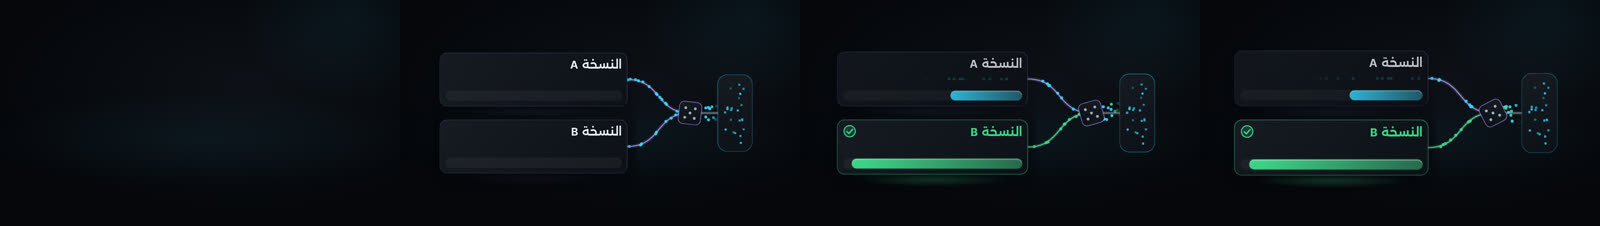
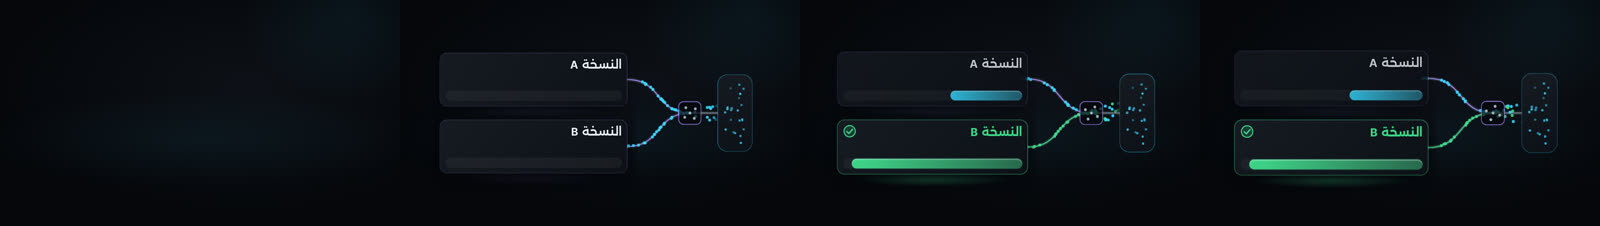
P7 dom-b: ABSplit finished (ordinal lanes per D1, deterministic die, dots sink at the lane rim; snap PASS det 0 qa 0, baselines pending-critic; perf lite 0.079 / standard 0.104 / hero 0.095 box s/frame; Arabic QA pass 2/2)
Claude-Session: https://claude.ai/code/session_01VrU9wxU8GmuhdhWAAHnnQ8

diff --git a/studio/src/components/ABSplit/ABSplit.tsx b/studio/src/components/ABSplit/ABSplit.tsx
@@ -19,7 +19,6 @@ import type {Props} from './schema';
 import {formatValue} from '../NumberCounter/NumberCounter';
 import {At, Chip, FitLabel, GlowLine, Stage, Svg, actsOf, bez, dPath, f24, fmtCount, glowBox, lerp, prog, progN, ranks, rim, stag, type Pt} from '../_dom-b/kit';
 
-const DBG: number = 8;
 const clamp = {extrapolateLeft: 'clamp', extrapolateRight: 'clamp'} as const;
 /** Digits only for contract facts (D1 ruling 1-2). */
 export const showsValues = (p: Props) => p.variants.every((v) => /^d:/.test(v.rate.ref));
@@ -48,7 +47,7 @@ export const ABSplitView: React.FC<DcProps<Props>> = ({props, ctx}) => {
   const qWin = progN(ctx, tWin, presetFrames('label', fps));
   const ent = prog(ctx, ctx.at, 'label');
   // ---------- decorative stream dots (never a user count) ----------
-  const DOTS = DBG & 1 ? 0 : Math.min(fx.particles, 20 * n + 20);
+  const DOTS = Math.min(fx.particles, 20 * n + 20);
   const cycle = f24(96, fps); // frames for a dot to run tank -> through the lane
   const dotR = Math.max(6, SIZE.label * 0.22);
   const trunkH = L.tankH * 0.3;
@@ -57,16 +56,17 @@ export const ABSplitView: React.FC<DcProps<Props>> = ({props, ctx}) => {
     const phase = random(`ab:${ctx.id}:${k}`);
     const age = ((((t - ctx.at) / cycle + phase) % 1) + 1) % 1; // linear: marching flow (04 section 2)
     let p: Pt;
-    if (age < 0.22) p = {x: lerp(src.x - L.tankW / 2, split.x, age / 0.22), y: src.y + (random(`aby:${ctx.id}:${k}`) - 0.5) * trunkH * (1 - (age / 0.22) * 0.8)};
-    else if (age < 0.5) {
+    if (age < 0.25) p = {x: lerp(src.x - L.tankW / 2, split.x, age / 0.25), y: src.y + (random(`aby:${ctx.id}:${k}`) - 0.5) * trunkH * (1 - (age / 0.25) * 0.8)};
+    else if (age < 0.8) {
       const lp = lanePath(lane);
-      const f = ((age - 0.22) / 0.28) * (lp.length - 1);
+      const f = ((age - 0.25) / 0.55) * (lp.length - 1);
       const j = Math.floor(f);
       const a = lp[j];
       const b = lp[Math.min(j + 1, lp.length - 1)];
       p = {x: lerp(a.x, b.x, f - j), y: lerp(a.y, b.y, f - j) + (random(`abj:${ctx.id}:${k}`) - 0.5) * dotR};
-    } else p = {x: lerp(cardX + cardW, cardX + cardW * 0.4, (age - 0.5) / 0.5), y: laneY(lane)};
-    const fade = age > 0.85 ? (1 - age) / 0.15 : age < 0.05 ? age / 0.05 : 1;
+    } else p = {x: lerp(cardX + cardW, cardX + cardW - dotR * 5, (age - 0.8) / 0.2), y: laneY(lane)};
+    // the users sink into the lane card at its rim (nothing runs across the label text)
+    const fade = age > 0.8 ? 1 - (age - 0.8) / 0.2 : age < 0.05 ? age / 0.05 : 1;
     return {p, lane, a: fade};
   });
   const lw = Math.max(3, Math.round(SIZE.label * 0.12));
@@ -113,7 +113,7 @@ export const ABSplitView: React.FC<DcProps<Props>> = ({props, ctx}) => {
       {/* the source: a glass tank of users (decorative dots, seeded; no count) */}
       <At x={src.x} y={src.y} style={{opacity: ent}}>
         <div style={{position: 'relative', width: L.tankW, height: L.tankH, borderRadius: L.tankW * 0.28, border: `1.5px solid ${C.signal}${hex(0.5)}`, background: `linear-gradient(160deg, ${C.panel} 0%, ${C.ground} 100%)`, boxShadow: `${rim(0.22)}, ${glowBox(C.signal, fx, 0.35 + ctx.mod.glow)}`}}>
-          {Array.from({length: DBG & 2 ? 0 : Math.min(fx.particles, 22)}, (_, k) => {
+          {Array.from({length: Math.min(fx.particles, 22)}, (_, k) => {
             const x = 0.16 + 0.68 * random(`abt:${ctx.id}:${k}x`);
             const y = 0.1 + 0.8 * random(`abt:${ctx.id}:${k}y`);
             const bob = Math.sin(((t - ctx.at) / fps) * 2 + random(`abt:${ctx.id}:${k}p`) * 6.28) * 5;
@@ -121,18 +121,20 @@ export const ABSplitView: React.FC<DcProps<Props>> = ({props, ctx}) => {
           })}
         </div>
       </At>
-      {/* the splitter: a random-assignment die on a glass plate */}
+      {/* the splitter: a random-assignment die on a glass plate (glow on the static plate; only the face turns, so the raster stays deterministic) */}
       <At x={split.x} y={split.y} style={{opacity: ent}}>
-        <div style={{width: dieS, height: dieS, borderRadius: dieS * 0.22, border: `2px solid ${C.violet}`, background: `linear-gradient(135deg, ${C.panel} 0%, ${C.ground} 100%)`, boxShadow: `${rim(0.26)}, ${glowBox(C.violet, fx, 0.6 + ctx.mod.glow)}`, transform: DBG & 8 ? undefined : `rotate(${rot.toFixed(2)}deg)`}}>
-          {[
-            [0.28, 0.28],
-            [0.72, 0.72],
-            [0.5, 0.5],
-            [0.72, 0.28],
-            [0.28, 0.72],
-          ].map(([x, y], k) => (
-            <div key={k} style={{position: 'absolute', left: `${x * 100}%`, top: `${y * 100}%`, width: dieS * 0.12, height: dieS * 0.12, marginLeft: -dieS * 0.06, marginTop: -dieS * 0.06, borderRadius: '50%', background: C.ink2}} />
-          ))}
+        <div style={{position: 'relative', width: dieS, height: dieS, borderRadius: dieS * 0.22, border: `2px solid ${C.violet}`, background: `${C.void}${hex(0.7)}`, boxShadow: `${rim(0.26)}, ${glowBox(C.violet, fx, 0.6 + ctx.mod.glow)}`}}>
+          <div style={{position: 'absolute', left: 0, top: 0, right: 0, bottom: 0, transform: `rotate(${rot.toFixed(2)}deg)`}}>
+            {[
+              [0.28, 0.28],
+              [0.72, 0.72],
+              [0.5, 0.5],
+              [0.72, 0.28],
+              [0.28, 0.72],
+            ].map(([x, y], k) => (
+              <div key={k} style={{position: 'absolute', left: `${x * 100}%`, top: `${y * 100}%`, width: dieS * 0.12, height: dieS * 0.12, marginLeft: -dieS * 0.06, marginTop: -dieS * 0.06, borderRadius: '50%', background: C.ink2}} />
+            ))}
+          </div>
         </div>
       </At>
       {/* lane cards */}
@@ -149,7 +151,7 @@ export const ABSplitView: React.FC<DcProps<Props>> = ({props, ctx}) => {
         const edge = win ? C.ok : C.violet;
         return (
           <React.Fragment key={i}>
-            <div style={{position: 'absolute', left: cardX, top: y - cardH / 2, width: cardW, height: cardH, borderRadius: cardH * 0.14, border: `1.5px solid ${edge}${hex(win ? 0.9 : 0.5)}`, background: `linear-gradient(135deg, ${C.panel} 0%, ${C.ground} 100%)`, boxShadow: `${rim(0.2)}, 0 ${(cardH * 0.1).toFixed(0)}px ${(cardH * 0.25).toFixed(0)}px -${(cardH * 0.1).toFixed(0)}px ${C.void}${win ? `, ${glowBox(C.ok, fx, 0.5 * qWin + ctx.mod.glow)}` : ''}`, opacity: DBG & 16 ? 1 : e * (1 - 0.18 * qWin * (win ? 0 : 1)), transform: DBG & 16 ? undefined : `translateY(${((1 - e) * 6).toFixed(2)}px)`}}>
+            <div style={{position: 'absolute', left: cardX, top: y - cardH / 2, width: cardW, height: cardH, borderRadius: cardH * 0.14, border: `1.5px solid ${edge}${hex(win ? 0.9 : 0.5)}`, background: `linear-gradient(135deg, ${C.panel} 0%, ${C.ground} 100%)`, boxShadow: `${rim(0.2)}, 0 ${(cardH * 0.1).toFixed(0)}px ${(cardH * 0.25).toFixed(0)}px -${(cardH * 0.1).toFixed(0)}px ${C.void}${win ? `, ${glowBox(C.ok, fx, 0.5 * qWin + ctx.mod.glow)}` : ''}`, opacity: e * (1 - 0.18 * qWin * (win ? 0 : 1)), transform: `translateY(${((1 - e) * 6).toFixed(2)}px)`}}>
               {/* label: top right (RTL start) */}
               <At x={cardW - pad} y={pad * 0.7} ax={1} ay={0}>
                 <FitLabel id={`${ctx.id}:lane${i}`} text={v.label} maxW={cardW * (values ? 0.42 : 0.6)} size={labelSize} color={win ? C.ok : C.ink} weight={FONT.label.strong} shadow={win ? `${halo}, ${glow(C.ok, fx, 0.5 * qWin)}` : undefined} />

diff --git a/docs/p7/catalog_status/dom-b.md b/docs/p7/catalog_status/dom-b.md
@@ -10,7 +10,7 @@ Date: 2026-10-10. Author: motion-engineer (dom-b).
 | PageScan | implemented (baselines pending-critic; snap PASS det 0, perf lite 0.074 / standard 0.091 / hero 0.100 box s/frame, Arabic QA PASS) | AT-13R no longer blocks (ADR-011 RV1). Grid keeps to the top 74 % of its slot; the lower quarter is the counter lane for NumberCounter (12 500 `d:6.5:3`, 3 `d:6.5:2`). |
 | AppliedSteps | implemented (round-2 polish after critic round 1: baselines pending-critic again; snap PASS det 0 qa 0, perf lite 0.087 / standard 0.099 / hero 0.101 box s/frame, Arabic QA PASS 6/6) | AT-13R no longer blocks (ADR-011 RV1). Film-strip list (glyph per kind, sprocket rails advance with the selection) plus a table miniature that cleans per step (column steps straighten a column, dedupe/filter collapse rows); a projector beam links them. No numbers drawn (row counts belong to NumberCounter, d:6.1:2, d:6.2:1). Narrow slots (< 1.4 : 1) drop the table. Round 2: frame cells with gaps, sprocket holes glow next to the lit frame, the bar starts on step 0 (never over the header), upcoming steps lifted to 0.72 opacity, group step folds row pairs, an ok sweep crosses the table when the last step lands, floor reflections and seeded dust motes. Plate size follows the slot (the scene-director sets the slot). |
 | SampleScoop | implemented (baselines pending-critic; snap PASS det 0 qa 0, perf lite 0.058 / standard 0.105 / hero 0.075 box s/frame, Arabic QA PASS) | AT-13R no longer blocks (ADR-011 RV1); D2 ruled (`reports/facts/p7_data_gaps.md` §3.3). Glass dish with a seeded population of dots (depth per dot; lite 240, standard/hero 360, decorative), a beaker that fills as the scoop lands, and a histogram of sample means that stacks up draw after draw; each scoop returns to the pool. `method` draws random / stratified bands / systematic stride through a listed order / whole clusters. Shows only the population label `5 000 طلب` (`s:S4:P11:0070`); `sample` is required by the frozen schema but never displayed and never sets a dot count (CR-009). No axis digits, no dot count. DOM + SVG only. |
-| ABSplit | deferred | AT-13R gate; data gap D1 |
+| ABSplit | implemented (baselines pending-critic; snap PASS det 0 qa 0, perf lite 0.079 / standard 0.104 / hero 0.095 box s/frame, Arabic QA PASS 2/2) | AT-13R no longer blocks (ADR-011 RV1); D1 ruled (`reports/facts/p7_data_gaps.md` §2.3: no digits today). One user stream leaves a glass tank on the right (RTL), passes a violet random-assignment die and divides through glass tubes into 2-4 lane cards, each with a label and a glass rate bar; `reveal {winner?}` grows the bars on its word (RV1) and the winner lane glows ok with a check ring. Digits are drawn only when every rate ref is a data-contract fact (`d:`); the A/B figures are not in the contract, so the demo renders ordinal bars (length = rank, no axis, no ticks) and the stream dots are decorative (no user count). The die glow sits on a static plate and only the face turns (a rotated glow box was non-deterministic in lite, 986 px). CR-010 (optional users/rate) stays open. DOM + SVG only; the p-value meter has no prop and is not drawn. |
 | WireTangle | deferred | AT-13R gate |
 | ModuleClusters | deferred | AT-13R gate |
 | ComplexityRace | deferred | AT-13R gate |
